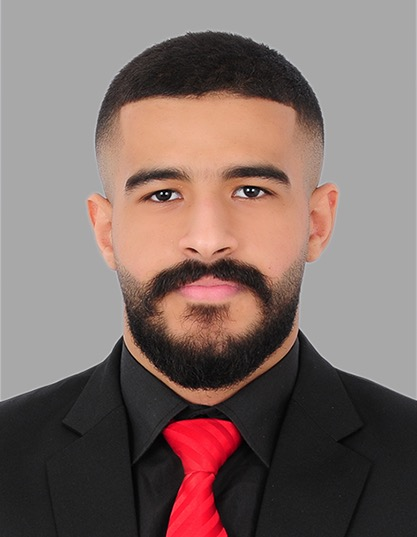
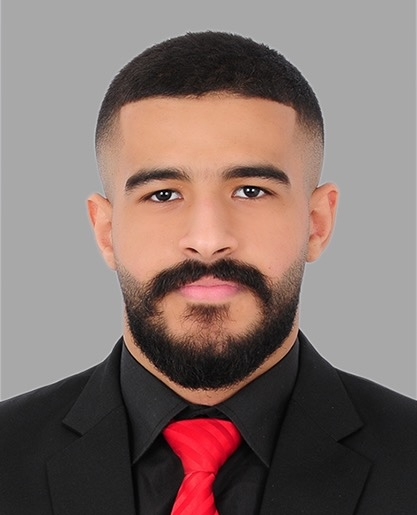
fixed profile photo alignment

diff --git a/index.html b/index.html
@@ -56,7 +56,7 @@
     .hero-quote cite{font-size:12px;color:var(--gold);letter-spacing:.08em;font-style:normal;font-weight:500;}
     .hero-right{position:relative;z-index:1;display:flex;flex-direction:column;align-items:center;gap:1rem;}
     .profile-frame{width:340px;height:340px;border-radius:50%;overflow:hidden;border:4px solid var(--green-light);box-shadow:0 0 0 8px rgba(82,183,136,.1),0 20px 60px rgba(26,58,42,.15);position:relative;}
-    .profile-frame img{width:100%;height:100%;object-fit:cover;}
+    .profile-frame img{width:100%;height:100%;object-fit:cover;object-position:center 40%;}
     .profile-frame::after{content:'';position:absolute;inset:-12px;border-radius:50%;border:1px dashed rgba(201,162,39,.4);pointer-events:none;}
     .time-badge{background:var(--white);border:1px solid var(--border);border-radius:20px;padding:6px 16px;font-size:12px;color:var(--green);font-weight:500;box-shadow:0 2px 8px rgba(0,0,0,.06);}
     /* SECTIONS */